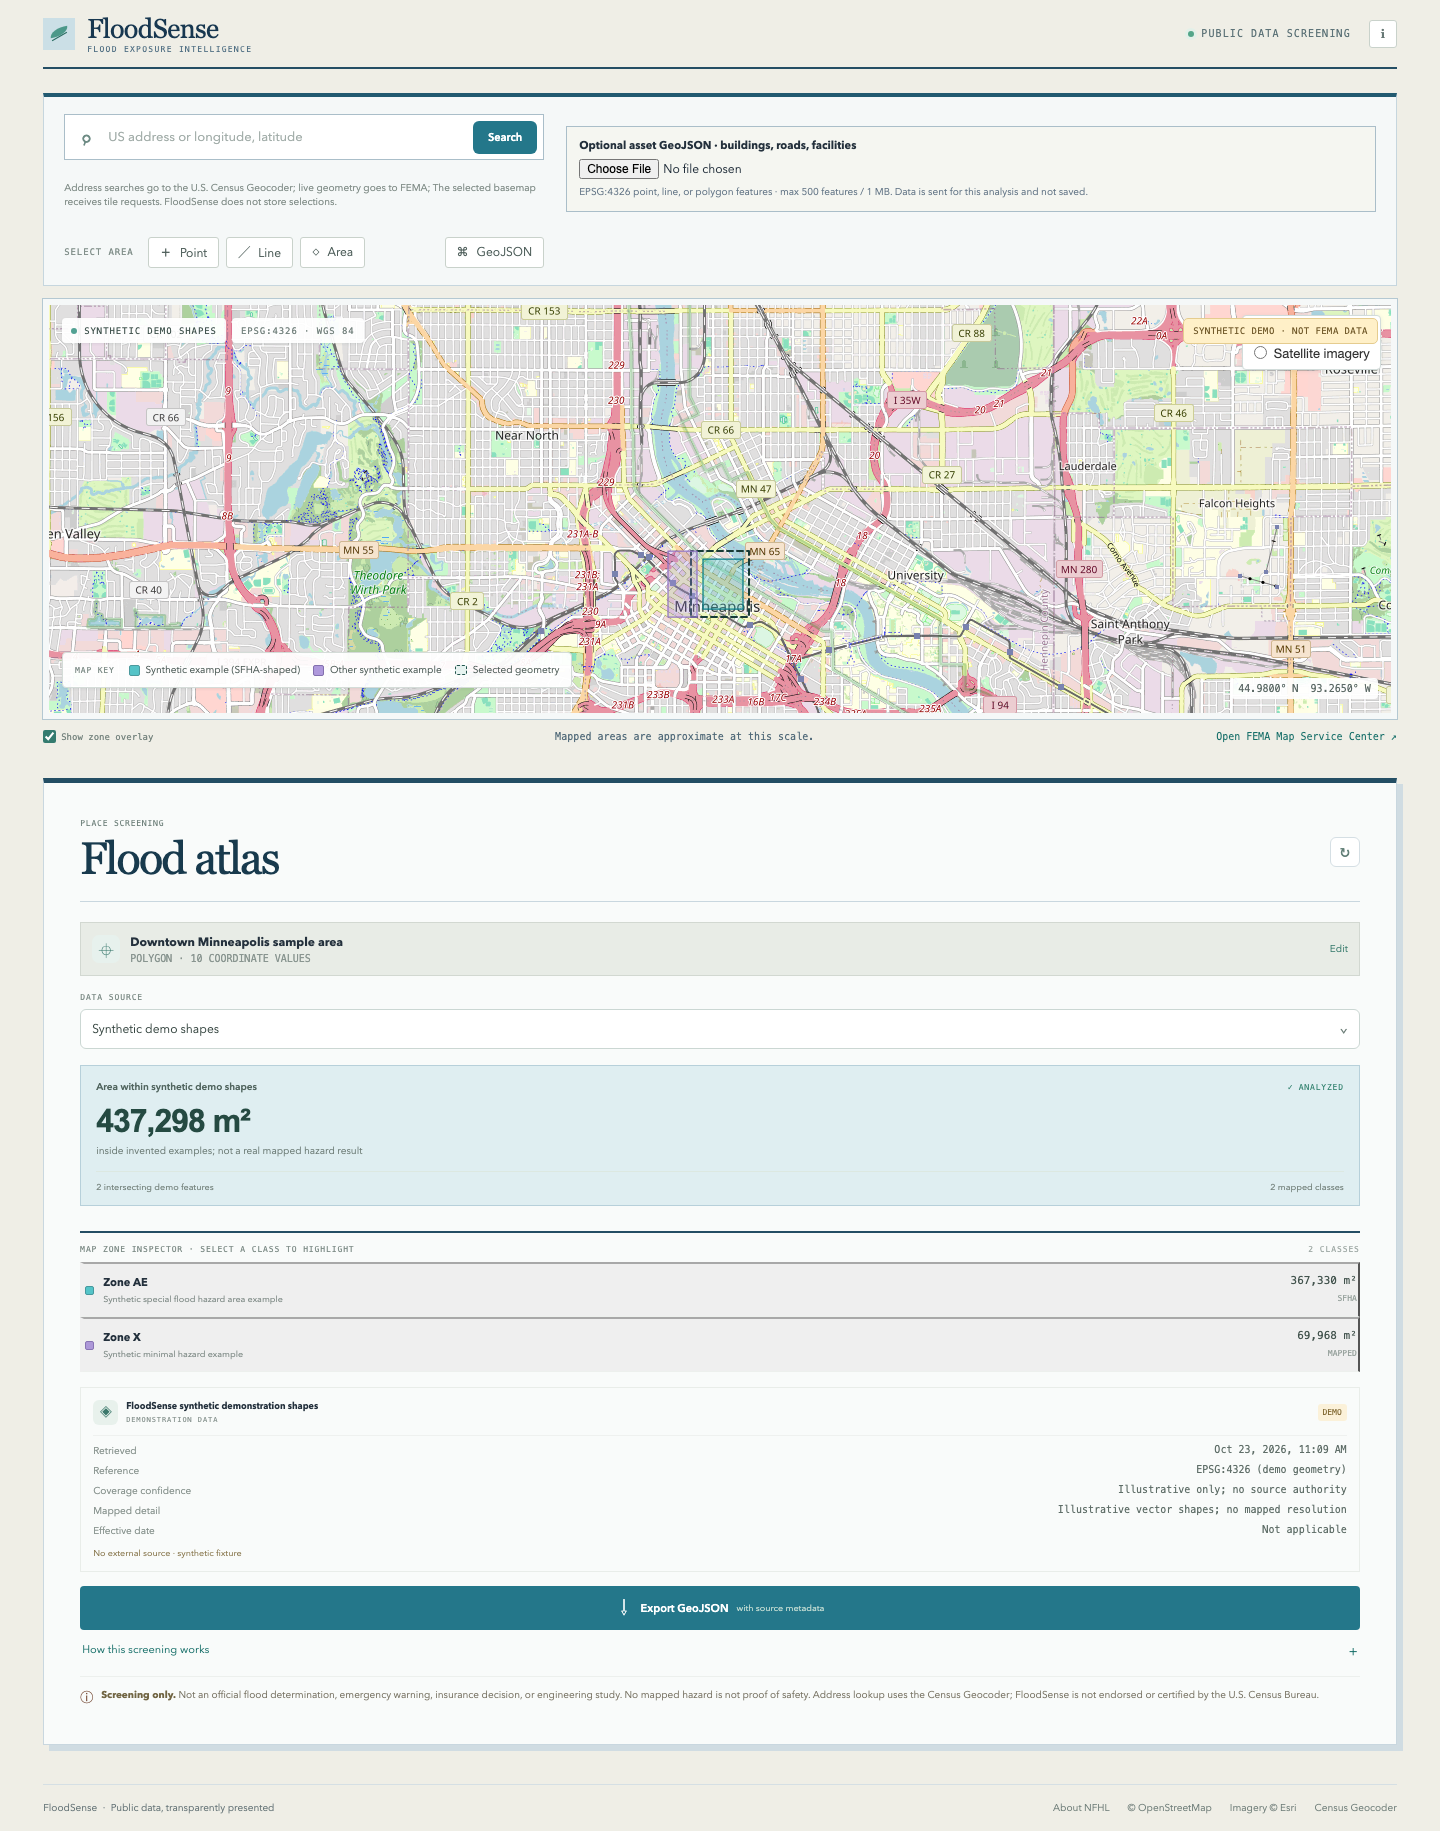
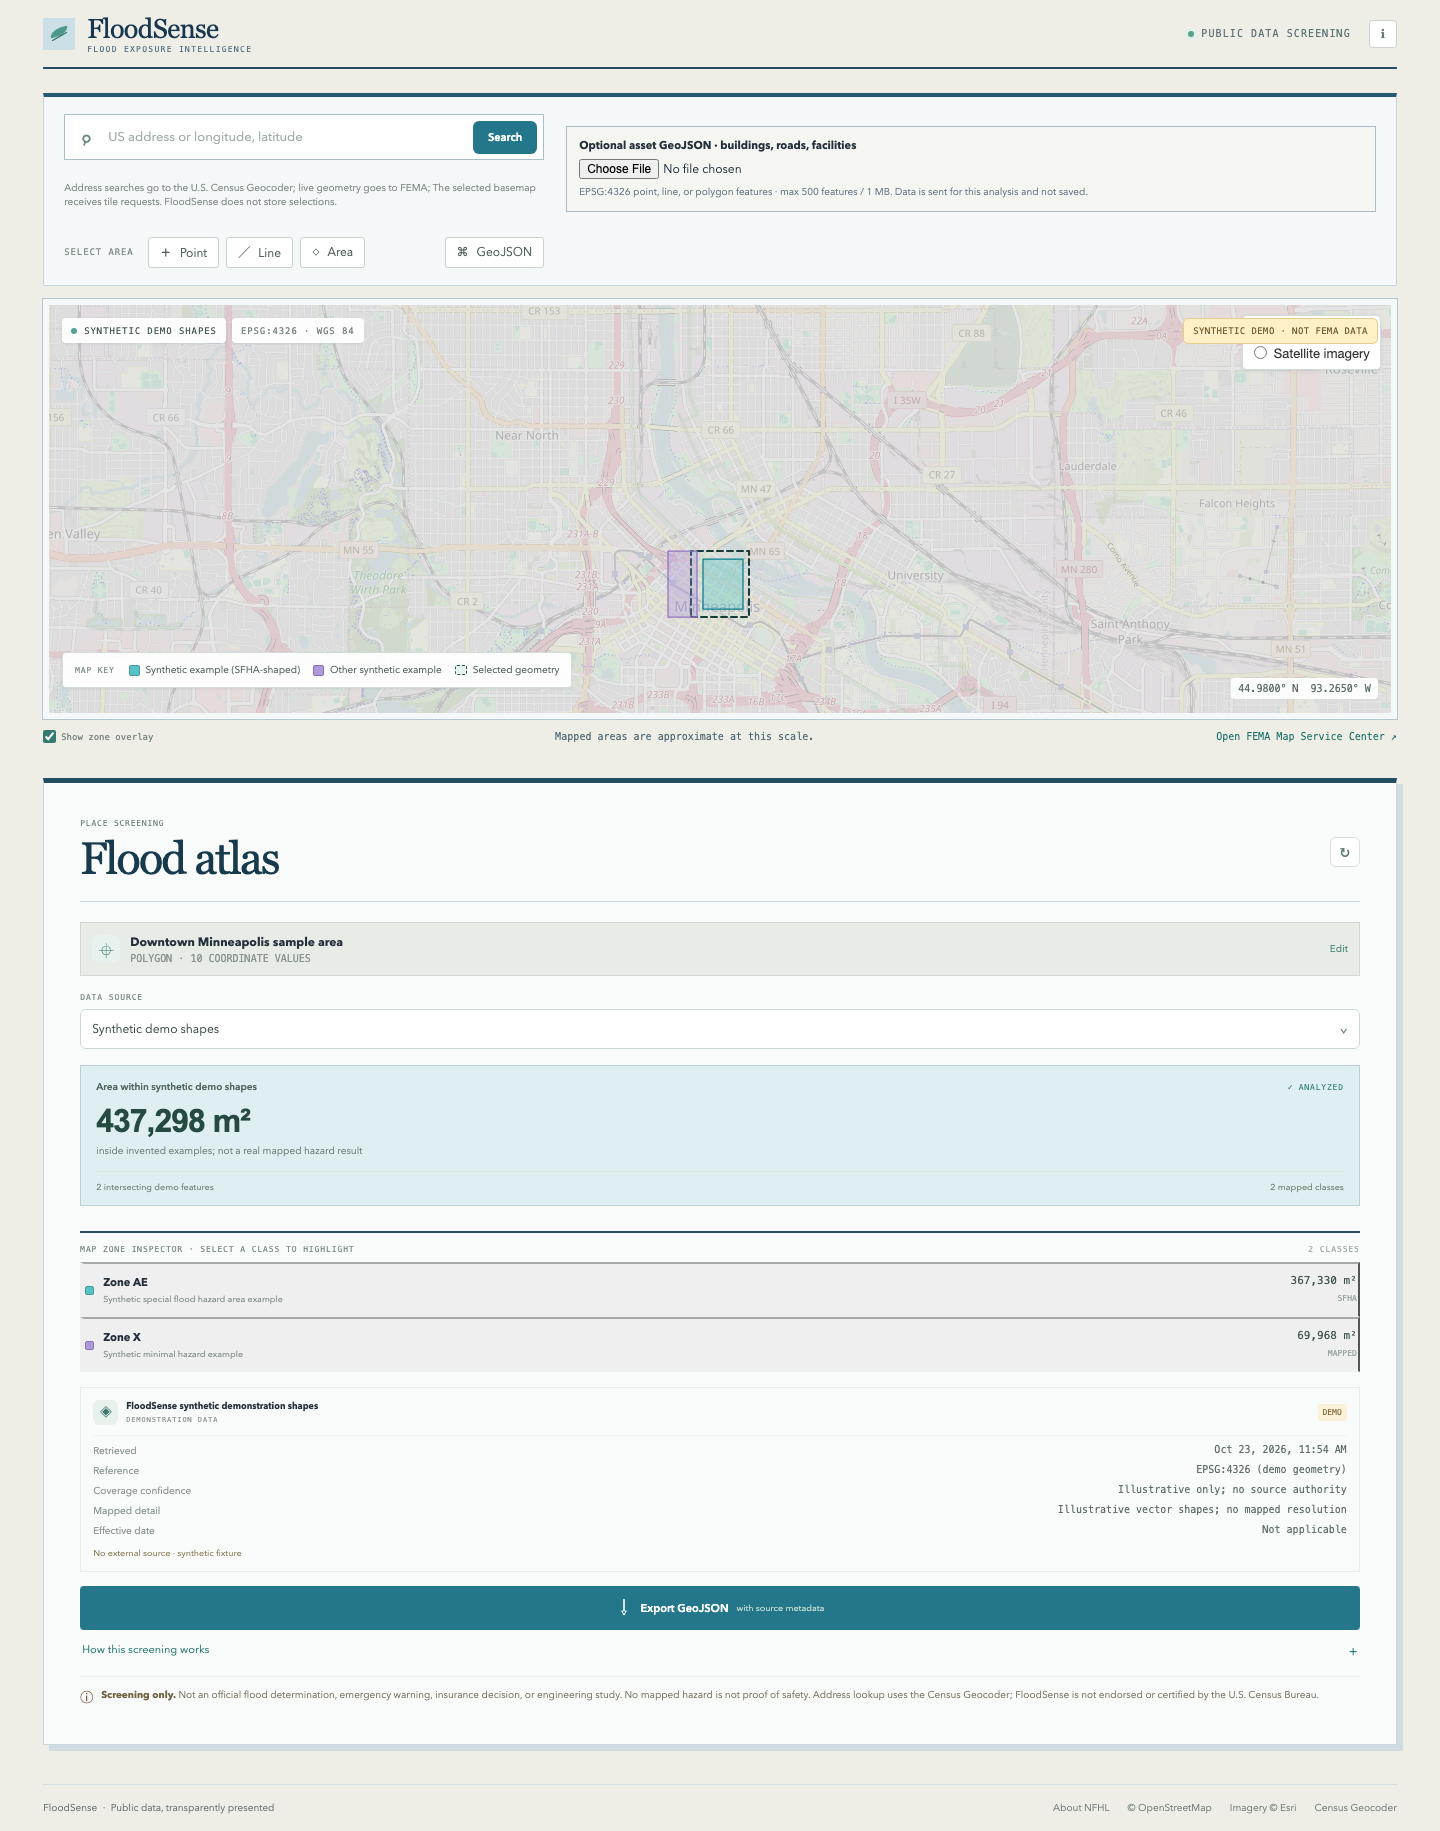
Clarify zone selection and prevent stale bundle assets

Changed region(s): [[0.0312, 0.1557, 0.9688, 0.4047]]

diff --git a/src/main.tsx b/src/main.tsx
@@ -4,14 +4,14 @@ import L from 'leaflet';
 import type { Feature, FeatureCollection, Geometry } from 'geojson';
 import 'leaflet/dist/leaflet.css';
 import './style.css';
-import type { AnalysisResult, FloodFeature, ZoneFeature } from '../shared/types.js';
+import type { AnalysisResult, FloodFeature, ZoneFeature, ZoneSummary } from '../shared/types.js';
 
 type DrawMode = '' | 'point' | 'line' | 'polygon';
 type MapHandle = L.Map & { finishFloodSense: () => FloodFeature | null };
 type MapProps = {
   geometry: FloodFeature;
   zones: ZoneFeature[];
-  selectedZone: string | null;
+  selectedClass: Pick<ZoneSummary, 'zone' | 'subtype'> | null;
   center: [number, number];
   zoom: number;
   drawMode: DrawMode;
@@ -44,7 +44,7 @@ const fmt = (m2: number) =>
 function FloodMap({
   geometry,
   zones,
-  selectedZone,
+  selectedClass,
   center,
   zoom,
   drawMode,
@@ -187,20 +187,20 @@ function FloodMap({
     if (overlay.current) mapRef.current.removeLayer(overlay.current);
     overlay.current = zones?.length
       ? L.geoJSON({ type: 'FeatureCollection', features: zones } as FeatureCollection, {
-          style: (f) => ({
-            color:
-              f?.properties?.FLD_ZONE === selectedZone
-                ? '#a04424'
-                : f?.properties?.SFHA_TF === 'T'
-                  ? '#087e89'
-                  : '#9274c5',
-            weight: f?.properties?.FLD_ZONE === selectedZone ? 3 : 1.25,
-            fillColor: f?.properties?.SFHA_TF === 'T' ? '#41c1c5' : '#a58be0',
-            fillOpacity: selectedZone && f?.properties?.FLD_ZONE !== selectedZone ? 0.09 : 0.31
-          })
+          style: (f) => {
+            const matches =
+              selectedClass?.zone === (f?.properties?.FLD_ZONE || 'Unknown') &&
+              selectedClass?.subtype === (f?.properties?.ZONE_SUBTY || null);
+            return {
+              color: matches ? '#a04424' : f?.properties?.SFHA_TF === 'T' ? '#087e89' : '#9274c5',
+              weight: matches ? 3 : 1.25,
+              fillColor: f?.properties?.SFHA_TF === 'T' ? '#41c1c5' : '#a58be0',
+              fillOpacity: selectedClass && !matches ? 0.09 : 0.31
+            };
+          }
         }).addTo(mapRef.current)
       : null;
-  }, [zones, selectedZone]);
+  }, [zones, selectedClass]);
 
   useEffect(() => {
     if (!mapRef.current) return;
@@ -256,7 +256,9 @@ function App() {
   const [result, setResult] = useState<AnalysisResult | null>(null);
   const [mode, setMode] = useState<'live' | 'synthetic'>('synthetic');
   const [showZones, setShowZones] = useState(true);
-  const [selectedZone, setSelectedZone] = useState<string | null>(null);
+  const [selectedClass, setSelectedClass] = useState<Pick<ZoneSummary, 'zone' | 'subtype'> | null>(
+    null
+  );
   const [drawMode, setDrawMode] = useState<DrawMode>('');
   const [center, setCenter] = useState<[number, number]>([44.98, -93.265]);
   const [zoom, setZoom] = useState(13);
@@ -278,7 +280,7 @@ function App() {
       setBusy(true);
       setError('');
       setResult(null);
-      setSelectedZone(null);
+      setSelectedClass(null);
       try {
         const res = await fetch('/api/analyze', {
           method: 'POST',
@@ -623,7 +625,7 @@ function App() {
             <FloodMap
               geometry={geometry}
               zones={showZones ? result?.zones || [] : []}
-              selectedZone={selectedZone}
+              selectedClass={selectedClass}
               center={center}
               zoom={zoom}
               drawMode={drawMode}
@@ -653,6 +655,15 @@ function App() {
                 {mode === 'synthetic' ? 'SYNTHETIC DEMO SHAPES' : 'FEMA MAPPED ZONES'}
               </span>
               <span className="map-tag muted-tag">EPSG:4326 · WGS 84</span>
+              {selectedClass && (
+                <button
+                  className="map-tag selected-map-class"
+                  onClick={() => setSelectedClass(null)}
+                >
+                  Highlight: Zone {selectedClass.zone}
+                  {selectedClass.subtype ? ` · ${selectedClass.subtype}` : ''} ×
+                </button>
+              )}
             </div>
             <div className="legend">
               <strong>MAP KEY</strong>
@@ -851,8 +862,8 @@ function App() {
                   <span>MAP ZONE INSPECTOR · SELECT A CLASS TO HIGHLIGHT</span>
                   <span>{counts.length} CLASSES</span>
                 </div>
-                {selectedZone && (
-                  <button className="clear-zone" onClick={() => setSelectedZone(null)}>
+                {selectedClass && (
+                  <button className="clear-zone" onClick={() => setSelectedClass(null)}>
                     Clear zone highlight ×
                   </button>
                 )}
@@ -861,8 +872,21 @@ function App() {
                     <button
                       className="zone-row zone-select"
                       type="button"
-                      aria-pressed={selectedZone === item.zone}
-                      onClick={() => setSelectedZone(selectedZone === item.zone ? null : item.zone)}
+                      aria-pressed={
+                        selectedClass?.zone === item.zone && selectedClass.subtype === item.subtype
+                      }
+                      onClick={() => {
+                        setShowZones(true);
+                        setSelectedClass(
+                          selectedClass?.zone === item.zone &&
+                            selectedClass.subtype === item.subtype
+                            ? null
+                            : { zone: item.zone, subtype: item.subtype }
+                        );
+                        requestAnimationFrame(() =>
+                          document.querySelector('.map-wrap')?.scrollIntoView({ block: 'start' })
+                        );
+                      }}
                       key={`${item.zone}-${item.subtype}-${i}`}
                     >
                       <i className={`zone-swatch ${item.sfha === 'T' ? 'sfha' : 'other'}`} />

diff --git a/test/e2e/workflow.spec.js b/test/e2e/workflow.spec.js
@@ -11,8 +11,15 @@ test('sample area → explicit demo source → metadata → provenance export', 
   const zone = page.locator('.zone-select').first();
   await zone.click();
   await expect(zone).toHaveAttribute('aria-pressed', 'true');
+  await expect(page.locator('.selected-map-class')).toContainText('Highlight: Zone');
+  await expect(page.locator('.leaflet-overlay-pane path[stroke="#a04424"]')).toHaveCount(1);
+  expect((await page.locator('.map-wrap').boundingBox()).y).toBeGreaterThanOrEqual(0);
   await page.getByRole('button', { name: 'Clear zone highlight ×' }).click();
   await expect(zone).toHaveAttribute('aria-pressed', 'false');
+  await zone.focus();
+  await page.keyboard.press('Enter');
+  await expect(zone).toHaveAttribute('aria-pressed', 'true');
+  await page.getByRole('button', { name: 'Clear zone highlight ×' }).click();
   await page.locator('.leaflet-control-layers-toggle').click({ force: true });
   await page.getByLabel('Satellite imagery').check();
   await page.getByLabel('Street map').check();
@@ -38,6 +45,26 @@ test('sample area → explicit demo source → metadata → provenance export', 
   expect(exported.properties.source.name).toContain('synthetic');
   expect(exported.properties.disclaimer).toContain('not an official flood determination');
   expect(exported.features[0].geometry.type).toBe('Polygon');
+});
+
+test('zone classes with the same code remain independently selectable', async ({ page }) => {
+  await page.route('**/api/analyze', async (route) => {
+    const response = await route.fetch();
+    const data = await response.json();
+    data.zones.push({
+      ...data.zones[0],
+      properties: { ...data.zones[0].properties, ZONE_SUBTY: 'Alternate subtype' }
+    });
+    data.byClass.push({ ...data.byClass[0], subtype: 'Alternate subtype' });
+    await route.fulfill({ response, json: data });
+  });
+  await page.goto('/');
+  const rows = page.locator('.zone-select').filter({ hasText: 'Zone AE' });
+  await expect(rows).toHaveCount(2);
+  await rows.first().click();
+  await expect(rows.first()).toHaveAttribute('aria-pressed', 'true');
+  await expect(rows.last()).toHaveAttribute('aria-pressed', 'false');
+  await expect(page.locator('.leaflet-overlay-pane path[stroke="#a04424"]')).toHaveCount(1);
 });
 
 test('text alternative accepts a point and the zone overlay control works', async ({ page }) => {

diff --git a/src/style.css b/src/style.css
@@ -1744,3 +1744,20 @@ body {
     box-shadow: 3px 3px 0 #d0dce2;
   }
 }
+.map-top-tags {
+  max-width: calc(100% - 28px);
+  flex-wrap: wrap;
+}
+.selected-map-class {
+  height: auto;
+  min-height: 25px;
+  border: 1px solid #a04424;
+  background: #fff1e8;
+  color: #7b351e;
+  font: 700 10px var(--mono);
+  cursor: pointer;
+}
+.selected-map-class:focus-visible {
+  outline: 3px solid #a04424;
+  outline-offset: 2px;
+}

diff --git a/vite.config.js b/vite.config.js
@@ -3,5 +3,7 @@ import react from '@vitejs/plugin-react';
 
 export default defineConfig({
   plugins: [react()],
+  // build:vercel generates public/ from dist/; it must not be copied back into dist/.
+  publicDir: false,
   server: { proxy: { '/api': 'http://localhost:4173' } }
 });

diff --git a/docs/frontend-audit.md b/docs/frontend-audit.md
@@ -1,0 +1,40 @@
+# Frontend release audit — FloodSense civic flood atlas
+
+Checked 2026-10-23 against the previous committed redesign (`HEAD` before this release) and the current working build.
+
+## Product and information architecture
+
+- Primary user job: explore a labeled example, adjust or select the domain input, inspect a defensible result, and export enough provenance to reproduce it.
+- Reading order: Source status and analysis map lead; class table, provenance, export, and interpretation follow.
+- Interaction corrected in this release: Selecting a class scrolls to the map and highlights only matching zone code and subtype; the map displays the active class and a clear control.
+- Technical implementation: existing frontend and API architecture was retained. The Vite build no longer recycles generated `public/` assets, so only the current bundle ships. No new runtime dependency was added.
+
+## Evidence
+
+| Check                     | Result                                                                                                      |
+| ------------------------- | ----------------------------------------------------------------------------------------------------------- |
+| Previous build JavaScript | 120380 gzip bytes                                                                                           |
+| Current build JavaScript  | 120545 gzip bytes (+165)                                                                                    |
+| Current build CSS         | 12395 gzip bytes                                                                                            |
+| Browser and API checks    | 17 API/analysis tests and 5 browser tests passed, including duplicate zone-code subtypes and mobile layout. |
+| Screenshots               | See the README linked desktop and mobile captures generated from the current browser flow.                  |
+
+Bundle measurements sum the compressed generated `assets/*.js` and `assets/*.css` files. They do not measure first-load latency, network transfer on a specific host, or main-thread work. The previous build was reproduced from the prior commit in an isolated temporary checkout with the same installed dependencies.
+
+## Accessibility and responsive review
+
+- Core controls use visible labels or accessible names. The new selection state uses native buttons/slider controls or an explicit map clear button.
+- Browser checks exercise the core flow and phone/tablet widths; existing full-page screenshots are kept with the repo.
+- Data remain available in text, tables, or exports when charts or maps cannot be interpreted.
+- A formal WCAG audit with assistive technology and automated contrast/axe tooling has not been completed. This remains a release follow-up before claiming accessibility conformance.
+
+## Scientific and operational limits
+
+Demo polygons are synthetic, and FEMA flood-zone screening is not a parcel-level risk forecast. Live provider availability varies. No screenshot, synthetic example, or model output is evidence of field validation. Public hosting and external data availability are tracked in the README/deployment docs.
+
+## Release checks
+
+- [x] Displayed selection and chart/data agree in browser tests.
+- [x] Existing unit/API tests and production build pass.
+- [x] Responsive browser workflow passes.
+- [ ] Repeat a manual screen-reader review and public-host latency measurement after deployment.

diff --git a/README.md b/README.md
@@ -1,10 +1,14 @@
 # FloodSense
 
+[Frontend release audit](docs/frontend-audit.md)
+
 **Live demo:** [floodsense-rosy.vercel.app](https://floodsense-rosy.vercel.app/)
 
 FloodSense is a map-based screening tool for exploring mapped flood-zone overlap around places and infrastructure. It is an educational screening application, **not** an official flood determination, emergency warning, insurance decision, engineering study, or substitute for local authorities.
 
-Select a zone class in the analysis sheet to highlight its returned polygons on the full-width map. The selection changes map emphasis only and does not change the measured overlap.\n\nThe starting sample is Downtown Minneapolis with an explicitly labeled synthetic example, so the first visit works without an external provider. Choose FEMA effective flood zones for live results. Search a US street address with the U.S. Census Geocoder, or enter `longitude, latitude` in EPSG:4326. Draw a point, line, or polygon on the map, or use the GeoJSON editor as a keyboard-operable alternative. Optionally load a bounded GeoJSON FeatureCollection (up to 500 point, line, or polygon assets / 1 MB) to screen user-supplied buildings, roads, or facilities against the returned polygons.
+Select a zone class in the analysis sheet to jump to the map and highlight polygons matching its zone code and subtype. The selection changes map emphasis only and does not change the measured overlap.
+
+The starting sample is Downtown Minneapolis with an explicitly labeled synthetic example, so the first visit works without an external provider. Choose FEMA effective flood zones for live results. Search a US street address with the U.S. Census Geocoder, or enter `longitude, latitude` in EPSG:4326. Draw a point, line, or polygon on the map, or use the GeoJSON editor as a keyboard-operable alternative. Optionally load a bounded GeoJSON FeatureCollection (up to 500 point, line, or polygon assets / 1 MB) to screen user-supplied buildings, roads, or facilities against the returned polygons.
 
 ## Sample screen
 
